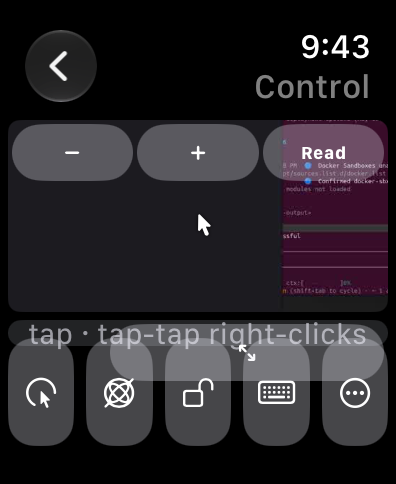
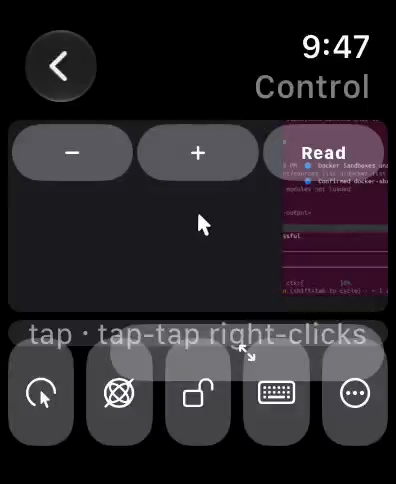
fix(web): the hero clip opens on the payoff, not on a menu
It started on the watch's machine list while the caption promised a machine's
screen. It now opens on the Control screen with the Pi's desktop already on it,
and the poster is that same frame — so a reader who never sees the video play
still sees the claim.

Also records the Higgsfield experiment in the run: two hero_banner cards were
generated from the real screenshots and neither is shippable — the model
re-renders the screens, inventing a green neofetch terminal and a Trackpad
control we do not have. A launch card reads as a product shot.

Changed region(s): [[0.7576, 0.062, 0.9394, 0.124], [0.7879, 0.3099, 0.8182, 0.3409], [0.7576, 0.3719, 0.7879, 0.4029]]

diff --git a/docs/factory/runs/2026-09-22T140000Z-landing-relaunch.md b/docs/factory/runs/2026-09-22T140000Z-landing-relaunch.md
@@ -84,6 +84,25 @@ recorded, and the commands are in the commit message.
 - The preview pane's screenshots do not always composite a playing video; check
   `readyState`/`paused` in the console rather than believing a black rectangle.
 
+## Higgsfield, and why nothing it made is on the page
+
+Arya asked for the official skill pack to be used and there are 593 credits on the Pro
+workspace. All eight `higgsfield-*` skills are already installed at the repo's current
+version (0.12.0) in `~/.agents/skills`, which every CLI on this machine symlinks, so
+there was nothing to vendor — the pack is live, and `higgsfield workspace set` selected
+the Private workspace.
+
+Two `hero_banner` cards were generated from the real watch and terminal screenshots
+(`hf_20260922_163004_fb142080…png`, `hf_20260922_163005_c4f326c5…png`). Both are
+beautiful and **neither is shippable**: the model re-renders the screens, so the phone
+shows a generic green `neofetch`/`htop` terminal and the watch shows a "Trackpad /
+Connected" control that does not exist in our app. A launch card is read as a product
+shot; publishing one would be showing a product we do not have. The OG image stays the
+real watch capture.
+
+Where generated imagery does fit later: environment and lighting only, with our real
+screens composited in afterwards — or brand work that never depicts the UI.
+
 ## Gate
 
 ```
